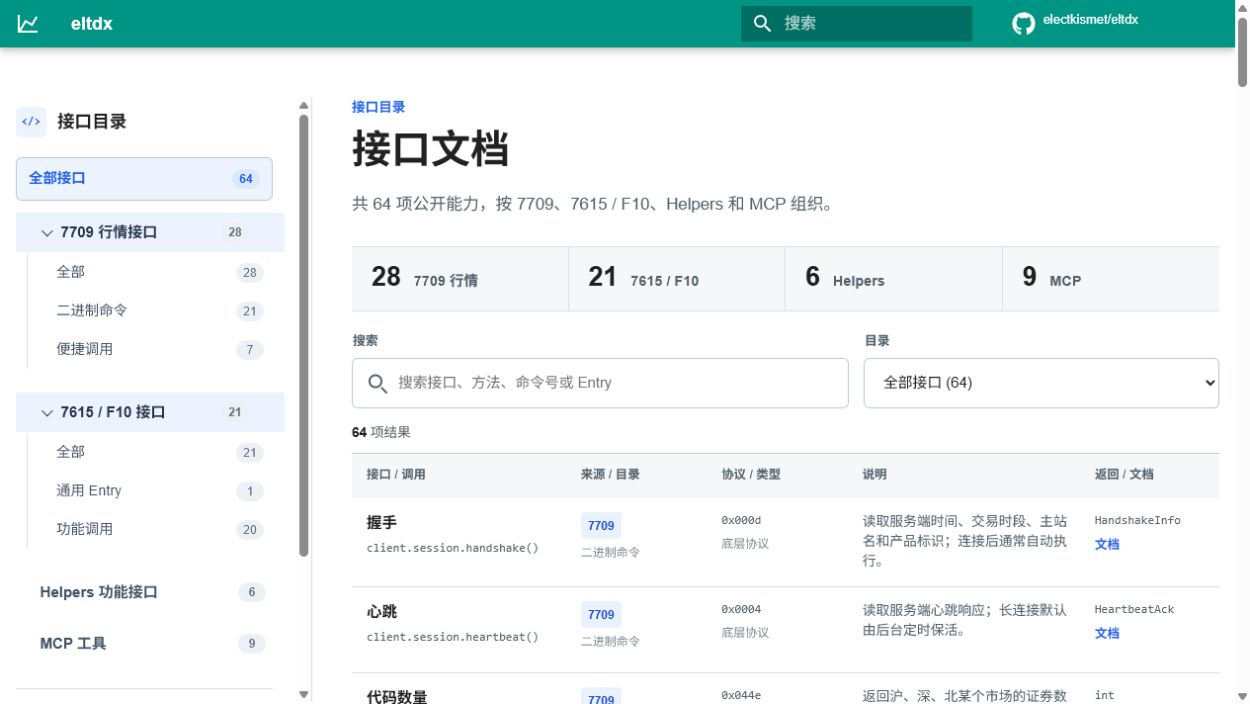
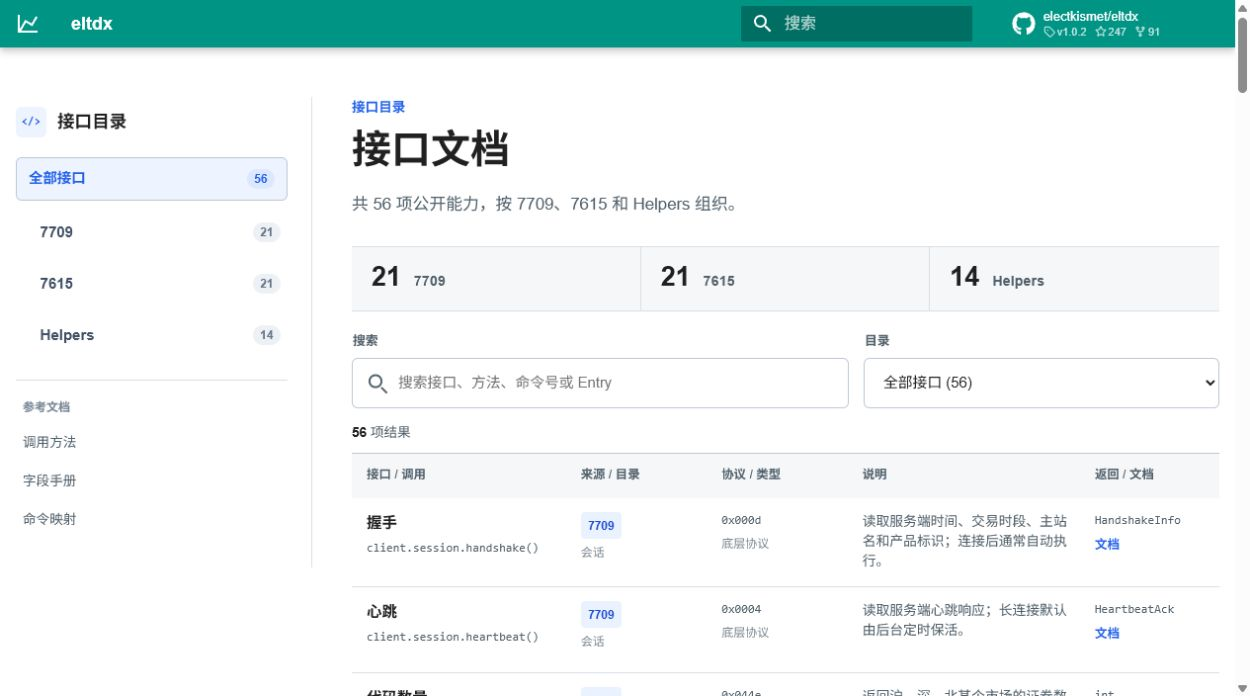
Flatten interface catalog navigation

diff --git a/docs/assets/interface-catalog-data.js b/docs/assets/interface-catalog-data.js
@@ -1,54 +1,30 @@
 window.ELTDX_CATALOG = {
-  "schema_version": 4,
+  "schema_version": 5,
   "taxonomy": {
     "layers": [
       {
         "id": "7709",
-        "label": "7709 行情接口",
+        "label": "7709",
         "tag_label": "7709",
-        "stat_label": "7709 行情",
-        "description": "28 项 7709 行情能力，包括 21 个二进制命令和 7 个便捷调用。",
-        "groups": [
-          {
-            "id": "commands",
-            "label": "二进制命令",
-            "item_ids": [
-              "7709-handshake", "7709-heartbeat", "7709-code-count", "7709-code-list",
-              "7709-quote-snapshots", "7709-legacy-quotes", "7709-category-quotes", "7709-quote-refresh",
-              "7709-kline", "7709-minute-today", "7709-minute-history", "7709-minute-recent",
-              "7709-minute-aux", "7709-sparkline", "7709-trades-today", "7709-trades-history",
-              "7709-auction-series", "7709-gbbq", "7709-finance", "7709-special-limits", "7709-file-content"
-            ]
-          },
-          {"id": "convenience", "label": "便捷调用", "source": "7709"}
-        ]
+        "stat_label": "7709",
+        "description": "21 个 7709 二进制命令，每项对应一个实际命令号。",
+        "source": "7709"
       },
       {
         "id": "7615",
-        "label": "7615 / F10 接口",
-        "tag_label": "7615 / F10",
-        "stat_label": "7615 / F10",
-        "description": "21 项 7615 / F10 能力，包括 1 个通用 Entry 和 20 个功能调用。",
-        "groups": [
-          {"id": "entry", "label": "通用 Entry", "item_ids": ["f10-generic-entry"]},
-          {"id": "features", "label": "功能调用", "source": "F10"}
-        ]
+        "label": "7615",
+        "tag_label": "7615",
+        "stat_label": "7615",
+        "description": "21 项 7615 / F10 调用，通用 Entry 与功能调用在同一目录平铺展示。",
+        "source": "F10"
       },
       {
         "id": "helpers",
-        "label": "Helpers 功能接口",
+        "label": "Helpers",
         "tag_label": "Helpers",
         "stat_label": "Helpers",
-        "description": "6 项面向使用场景的功能接口，组合公开 API 并整理或计算新的结果。",
+        "description": "14 项协议封装与功能接口，包括分页、组合、整理和本地计算。",
         "source": "Helper"
-      },
-      {
-        "id": "mcp",
-        "label": "MCP 工具",
-        "tag_label": "MCP",
-        "stat_label": "MCP",
-        "description": "9 项 MCP 工具，向 Agent 暴露现有的行情、F10、Helper 和文档能力。",
-        "source": "MCP"
       }
     ]
   },
@@ -59,11 +35,11 @@ window.ELTDX_CATALOG = {
     {"id": "7709-code-list", "title": "代码表", "source": "7709", "category": "证券代码", "api": "client.codes.list() / client.codes.all() / client.get_codes_all()", "aliases": ["list", "all", "get_codes_all", "ETF", "指数"], "protocol": "0x044d", "kind": "底层协议", "summary": "返回代码、名称、市场、价格精度、昨收，以及 A 股、ETF、指数等本地分类。", "return_model": "list[SecurityCode]", "doc": "methods/7709-代码表.md"},
     {"id": "7709-quote-snapshots", "title": "批量行情快照", "source": "7709", "category": "行情", "api": "client.quotes.get_snapshots(codes)", "aliases": ["get_snapshots", "quote", "ETF", "指数"], "protocol": "0x054c", "kind": "底层协议", "summary": "无游标的一次性基础快照，返回现价、成交量额和已确认的一档盘口；完整五档由 0x0547 补齐。", "return_model": "list[QuoteSnapshot]", "doc": "methods/7709-批量快照.md"},
     {"id": "7709-legacy-quotes", "title": "旧版批量行情", "source": "7709", "category": "行情", "api": "client.quotes.legacy(codes) / client.get_legacy_quotes(codes)", "aliases": ["legacy_quotes", "legacy", "旧版行情", "五档盘口"], "protocol": "0x053e", "kind": "底层协议", "summary": "无游标的旧版完整快照，一次返回五档、交易状态和旧版尾部字段；不支持增量刷新或推送。", "return_model": "list[LegacyQuote]", "doc": "methods/7709-旧版批量行情.md"},
-    {"id": "7709-quote-depth", "title": "完整行情 / 五档盘口", "source": "7709", "category": "行情封装", "api": "client.get_quote(codes) / client.get_quote_depth(codes) / client.quotes.get_depth(codes)", "aliases": ["get_quote", "get_depth", "get_quote_depth", "level2", "买五", "卖五", "ETF", "指数"], "protocol": "0x054c + 0x0547", "kind": "便捷封装", "summary": "组合快照与首次刷新，补齐完整五档行情；也可只读取五档盘口。", "return_model": "list[QuoteSnapshot] / QuoteRefreshPage", "doc": "methods/7709-批量快照.md"},
+    {"id": "7709-quote-depth", "title": "完整行情 / 五档盘口", "source": "Helper", "category": "行情封装", "api": "client.get_quote(codes) / client.get_quote_depth(codes) / client.quotes.get_depth(codes)", "aliases": ["get_quote", "get_depth", "get_quote_depth", "level2", "买五", "卖五", "ETF", "指数"], "protocol": "0x054c + 0x0547", "kind": "协议封装", "summary": "组合快照与首次刷新，补齐完整五档行情；也可只读取五档盘口。", "return_model": "list[QuoteSnapshot] / QuoteRefreshPage", "doc": "methods/7709-批量快照.md"},
     {"id": "7709-category-quotes", "title": "分类行情", "source": "7709", "category": "行情", "api": "client.quotes.list_by_category(...)", "aliases": ["list_by_category", "sort", "板块行情"], "protocol": "0x054b", "kind": "底层协议", "summary": "按市场或板块分页返回行情列表，并支持按涨幅、价格、成交额等服务端排序。", "return_model": "CategoryQuotePage", "doc": "methods/7709-分类行情.md"},
     {"id": "7709-quote-refresh", "title": "增量刷新 / 推送队列", "source": "7709", "category": "行情", "api": "client.quotes.refresh() / poll_push() / drain_pushes()", "aliases": ["refresh", "poll_push", "drain_pushes", "push queue"], "protocol": "0x0547", "kind": "底层协议", "summary": "按代码和游标刷新行情；首次游标 0 可返回完整五档，后续用于增量更新并配合推送队列。", "return_model": "QuoteRefreshPage", "doc": "methods/7709-增量刷新推送队列.md"},
     {"id": "7709-kline", "title": "K 线 / 周期线", "source": "7709", "category": "K 线", "api": "client.bars.get() / client.get_kline()", "aliases": ["bars.get", "get_kline", "OHLC", "前复权", "后复权", "ETF", "指数"], "protocol": "0x052d", "kind": "底层协议", "summary": "返回分钟、日、周、月、季、年 K 线，支持服务端复权和不复权参数。", "return_model": "KlineSeries", "doc": "methods/7709-K线周期线.md"},
-    {"id": "7709-kline-all", "title": "全量 K 线分页", "source": "7709", "category": "K 线", "api": "client.bars.all() / client.get_kline_all()", "aliases": ["bars.all", "get_kline_all", "历史 K 线"], "protocol": "0x052d", "kind": "分页封装", "summary": "自动连续分页并合并 K 线，适合补充历史日线或分钟线数据。", "return_model": "KlineSeries", "doc": "methods/7709-全量K线分页.md"},
+    {"id": "7709-kline-all", "title": "全量 K 线分页", "source": "Helper", "category": "K 线", "api": "client.bars.all() / client.get_kline_all()", "aliases": ["bars.all", "get_kline_all", "历史 K 线"], "protocol": "0x052d", "kind": "协议封装", "summary": "自动连续分页并合并 K 线，适合补充历史日线或分钟线数据。", "return_model": "KlineSeries", "doc": "methods/7709-全量K线分页.md"},
     {"id": "7709-minute-today", "title": "当日分时", "source": "7709", "category": "分时", "api": "client.minutes.today() / client.get_minute(code)", "aliases": ["minutes.today", "get_minute", "分时图", "ETF", "指数"], "protocol": "0x0537", "kind": "底层协议", "summary": "返回当前交易日每分钟价格、成交量和均价等分时序列。", "return_model": "MinuteSeries", "doc": "methods/7709-当日分时.md"},
     {"id": "7709-minute-history", "title": "指定日期历史分时", "source": "7709", "category": "分时", "api": "client.minutes.history() / client.get_history_minute()", "aliases": ["minutes.history", "get_history_minute", "历史分时"], "protocol": "0x0fb4", "kind": "底层协议", "summary": "按指定日期返回某个交易日的分时价格和分钟成交量。", "return_model": "MinuteSeries", "doc": "methods/7709-指定日期历史分时.md"},
     {"id": "7709-minute-recent", "title": "近期历史分时", "source": "7709", "category": "分时", "api": "client.minutes.recent()", "aliases": ["minutes.recent", "近期分时"], "protocol": "0x0feb", "kind": "底层协议", "summary": "返回服务端近期窗口内的历史分时，适合查询较近交易日的分钟走势。", "return_model": "MinuteSeries", "doc": "methods/7709-近期历史分时.md"},
@@ -72,15 +48,15 @@ window.ELTDX_CATALOG = {
     {"id": "7709-trades-today", "title": "当日成交明细", "source": "7709", "category": "逐笔成交", "api": "client.trades.today() / client.get_trades(code)", "aliases": ["trades.today", "get_trades", "ticks", "逐笔"], "protocol": "0x0fc5", "kind": "底层协议", "summary": "返回当前交易日逐条成交的时间、价格、成交量、方向和状态。", "return_model": "TradePage", "doc": "methods/7709-当日成交明细.md"},
     {"id": "7709-trades-history", "title": "历史成交明细", "source": "7709", "category": "逐笔成交", "api": "client.trades.history() / client.get_history_trade_day()", "aliases": ["trades.history", "get_history_trade_day", "历史逐笔"], "protocol": "0x0fc6", "kind": "底层协议", "summary": "返回指定日期的逐条成交记录，支持分页拉全和委托笔数等扩展字段。", "return_model": "TradePage", "doc": "methods/7709-历史成交明细.md"},
     {"id": "7709-auction-series", "title": "集合竞价明细", "source": "7709", "category": "集合竞价", "api": "client.auctions.series() / client.get_call_auction()", "aliases": ["auctions.series", "get_call_auction", "竞价序列"], "protocol": "0x056a", "kind": "底层协议", "summary": "返回集合竞价阶段的价格、虚拟成交量、买卖盘和未匹配量变化。", "return_model": "AuctionSeries", "doc": "methods/7709-集合竞价明细.md"},
-    {"id": "7709-auction-0925", "title": "09:25 竞价成交快照", "source": "7709", "category": "集合竞价", "api": "client.get_auction_0925(code, date)", "aliases": ["get_auction_0925", "开盘竞价", "925"], "protocol": "基于 0x0fc6", "kind": "本地整理", "summary": "从历史成交明细中扫描 09:25 最终成交，整理价格、成交量、成交额和方向。", "return_model": "Auction0925Result", "doc": "methods/7709-0925竞价成交快照.md"},
+    {"id": "7709-auction-0925", "title": "09:25 竞价成交快照", "source": "Helper", "category": "集合竞价", "api": "client.get_auction_0925(code, date)", "aliases": ["get_auction_0925", "开盘竞价", "925"], "protocol": "基于 0x0fc6", "kind": "功能接口", "summary": "从历史成交明细中扫描 09:25 最终成交，整理价格、成交量、成交额和方向。", "return_model": "Auction0925Result", "doc": "methods/7709-0925竞价成交快照.md"},
     {"id": "7709-gbbq", "title": "股本变迁 / GBBQ", "source": "7709", "category": "公司基础", "api": "client.corporate.capital_changes() / client.get_gbbq()", "aliases": ["capital_changes", "get_gbbq", "股本事件"], "protocol": "0x000f", "kind": "底层协议", "summary": "返回除权除息、股本变化、增发和回购等股本事件记录。", "return_model": "CapitalChangeBlock", "doc": "methods/7709-股本变迁GBBQ.md"},
-    {"id": "7709-xdxr", "title": "除权除息整理", "source": "7709", "category": "公司基础", "api": "client.get_xdxr(code)", "aliases": ["get_xdxr", "分红", "送转", "配股"], "protocol": "基于 0x000f", "kind": "本地整理", "summary": "从股本变迁记录中筛出除权除息事件，并整理分红、送转和配股字段。", "return_model": "list[XdxrRecord]", "doc": "methods/7709-除权除息整理.md"},
-    {"id": "7709-equity", "title": "指定日期股本", "source": "7709", "category": "公司基础", "api": "client.get_equity_changes() / client.get_equity()", "aliases": ["get_equity_changes", "get_equity", "流通股本", "总股本"], "protocol": "基于 0x000f", "kind": "本地整理", "summary": "整理历次股本变化，并取得指定日期之前最近一次流通股本和总股本。", "return_model": "EquityResponse / EquityRecord", "doc": "methods/7709-指定日期股本.md"},
-    {"id": "7709-turnover", "title": "换手率", "source": "7709", "category": "公司基础", "api": "client.get_turnover(code, volume, on=None, unit=\"hand\")", "aliases": ["get_turnover", "turnover rate"], "protocol": "基于 0x000f", "kind": "本地计算", "summary": "使用成交量和指定日期的流通股本计算换手率。", "return_model": "float", "doc": "methods/7709-换手率.md"},
-    {"id": "7709-local-factors", "title": "本地复权因子", "source": "7709", "category": "公司基础", "api": "client.get_factors() / client.get_local_adjusted_kline_all()", "aliases": ["get_factors", "get_local_adjusted_kline_all", "qfq", "hfq"], "protocol": "0x052d + 0x000f", "kind": "本地计算", "summary": "根据不复权日 K 和除权除息记录计算本地前复权、后复权因子及 K 线。", "return_model": "FactorResponse / KlineSeries", "doc": "methods/7709-本地复权因子.md"},
+    {"id": "7709-xdxr", "title": "除权除息整理", "source": "Helper", "category": "公司基础", "api": "client.get_xdxr(code)", "aliases": ["get_xdxr", "分红", "送转", "配股"], "protocol": "基于 0x000f", "kind": "功能接口", "summary": "从股本变迁记录中筛出除权除息事件，并整理分红、送转和配股字段。", "return_model": "list[XdxrRecord]", "doc": "methods/7709-除权除息整理.md"},
+    {"id": "7709-equity", "title": "指定日期股本", "source": "Helper", "category": "公司基础", "api": "client.get_equity_changes() / client.get_equity()", "aliases": ["get_equity_changes", "get_equity", "流通股本", "总股本"], "protocol": "基于 0x000f", "kind": "功能接口", "summary": "整理历次股本变化，并取得指定日期之前最近一次流通股本和总股本。", "return_model": "EquityResponse / EquityRecord", "doc": "methods/7709-指定日期股本.md"},
+    {"id": "7709-turnover", "title": "换手率", "source": "Helper", "category": "公司基础", "api": "client.get_turnover(code, volume, on=None, unit=\"hand\")", "aliases": ["get_turnover", "turnover rate"], "protocol": "基于 0x000f", "kind": "功能接口", "summary": "使用成交量和指定日期的流通股本计算换手率。", "return_model": "float", "doc": "methods/7709-换手率.md"},
+    {"id": "7709-local-factors", "title": "本地复权因子", "source": "Helper", "category": "公司基础", "api": "client.get_factors() / client.get_local_adjusted_kline_all()", "aliases": ["get_factors", "get_local_adjusted_kline_all", "qfq", "hfq"], "protocol": "0x052d + 0x000f", "kind": "功能接口", "summary": "根据不复权日 K 和除权除息记录计算本地前复权、后复权因子及 K 线。", "return_model": "FactorResponse / KlineSeries", "doc": "methods/7709-本地复权因子.md"},
     {"id": "7709-finance", "title": "财务基础信息", "source": "7709", "category": "公司基础", "api": "client.corporate.finance_batch() / client.get_finance_batch()", "aliases": ["finance_batch", "get_finance_batch", "EPS", "资产", "利润"], "protocol": "0x0010", "kind": "底层协议", "summary": "批量返回流通股本、总股本、EPS、资产、负债、收入和利润等基础字段。", "return_model": "FinanceBatch", "doc": "methods/7709-财务基础信息.md"},
     {"id": "7709-special-limits", "title": "特殊品种涨跌停限制", "source": "7709", "category": "交易限制", "api": "client.limits.special() / client.limits.scan_special()", "aliases": ["limits.special", "scan_special", "涨停", "跌停"], "protocol": "0x0452", "kind": "底层协议", "summary": "分页或连续扫描特殊品种涨跌停限制表，并按代码建立索引。", "return_model": "SpecialLimitPage", "doc": "methods/7709-特殊品种涨跌停限制.md"},
-    {"id": "7709-file-content", "title": "服务器文件读取", "source": "7709", "category": "服务器资源", "api": "client.resources.read() / download_file() / read_stats()", "aliases": ["file_content", "read_server_file", "download_file", "read_stats", "zhb.zip", "tdxstat", "服务器文件", "文件块"], "protocol": "0x06b9", "kind": "底层协议 + 上层解析", "summary": "读取单个文件块或下载整文件，并可解压解析 zhb.zip 中的 tdxstat.cfg 与 tdxstat2.cfg。", "return_model": "FileContentChunk / bytes / TdxStatsResource", "doc": "methods/7709-服务器文件读取.md"},
+    {"id": "7709-file-content", "title": "服务器文件分块读取", "source": "7709", "category": "服务器资源", "api": "client.resources.read() / client.read_server_file()", "aliases": ["file_content", "read_server_file", "服务器文件", "文件块"], "protocol": "0x06b9", "kind": "底层协议", "summary": "按路径、偏移和长度读取一个服务器文件块，返回长度头与原始内容。", "return_model": "FileContentChunk", "doc": "methods/7709-服务器文件读取.md"},
 
     {"id": "f10-generic-entry", "title": "通用 Entry 调用", "source": "F10", "category": "网关", "api": "client.f10.call(...) / client.f10.params(...)", "aliases": ["call", "params", "TQLEX"], "protocol": "7615 / TQLEX", "kind": "通用调用", "summary": "直接调用任意 TQLEX Entry，用于验证资料函数或补充调用特殊 Entry。", "return_model": "F10Response", "doc": "methods/F10-通用Entry调用.md"},
     {"id": "f10-stock-info", "title": "股票基础信息", "source": "F10", "category": "公司资料", "api": "client.f10.stock_info() / business_periods() / topic_ids()", "aliases": ["stock_info", "business_periods", "topic_ids"], "protocol": "CWServ.tdxf10_gg_comreq", "kind": "Entry 封装", "summary": "查询股票名称、代码、市场，以及主营报告期和题材 ID 等辅助信息。", "return_model": "F10Response", "doc": "methods/F10-股票基础信息.md"},
@@ -110,15 +86,6 @@ window.ELTDX_CATALOG = {
     {"id": "helper-stock-topics", "title": "个股概念板块", "source": "Helper", "category": "题材与概念", "api": "client.helpers.stock_topics(code)", "aliases": ["stock_topics", "个股题材"], "protocol": "F10 多 Entry", "kind": "组合能力", "summary": "合并股票基础信息和热点题材结果，整理某只股票的全部题材与概念。", "return_model": "StockTopics", "doc": "helpers/个股概念板块.md"},
     {"id": "helper-topic-stocks", "title": "概念板块成分股", "source": "Helper", "category": "题材与概念", "api": "client.helpers.topic_stocks(seed_code, ...)", "aliases": ["topic_stocks", "题材成分股"], "protocol": "F10 多 Entry", "kind": "组合能力", "summary": "按题材 ID 或名称查询概念板块成分股，并整理排名和区间涨跌幅。", "return_model": "TopicStockTable", "doc": "helpers/概念板块成分股.md"},
     {"id": "helper-auction-data", "title": "竞价数据", "source": "Helper", "category": "集合竞价", "api": "client.helpers.auction_data(code, date)", "aliases": ["auction_data", "开盘涨幅", "开盘金额"], "protocol": "0x056a + 0x0fc6 + 0x054c", "kind": "组合能力", "summary": "合并竞价序列、09:25 成交快照和昨收，计算开盘价、开盘金额及涨幅。", "return_model": "AuctionData", "doc": "helpers/竞价数据.md"},
-
-    {"id": "mcp-quote", "title": "行情快照", "source": "MCP", "category": "行情工具", "api": "eltdx_quote", "aliases": ["quote", "MCP tool"], "protocol": "MCP stdio", "kind": "工具", "summary": "通过 MCP 查询一个或多个股票的行情快照。", "return_model": "JSON", "doc": "MCP.md", "doc_anchor": "mcp-tools"},
-    {"id": "mcp-kline", "title": "K 线 / 周期线", "source": "MCP", "category": "行情工具", "api": "eltdx_kline", "aliases": ["kline", "bars", "MCP tool"], "protocol": "MCP stdio", "kind": "工具", "summary": "通过 MCP 查询 K 线和周期线，并支持复权参数。", "return_model": "JSON", "doc": "MCP.md", "doc_anchor": "mcp-tools"},
-    {"id": "mcp-stock-profile", "title": "股票信息汇总", "source": "MCP", "category": "组合工具", "api": "eltdx_stock_profile", "aliases": ["stock_profile", "MCP tool"], "protocol": "MCP stdio", "kind": "工具", "summary": "通过 MCP 合并行情、代码表和财务基础信息。", "return_model": "JSON", "doc": "MCP.md", "doc_anchor": "mcp-tools"},
-    {"id": "mcp-stock-topics", "title": "个股题材 / 概念板块", "source": "MCP", "category": "题材工具", "api": "eltdx_stock_topics", "aliases": ["stock_topics", "MCP tool"], "protocol": "MCP stdio", "kind": "工具", "summary": "通过 MCP 查询某只股票的全部题材与概念板块。", "return_model": "JSON", "doc": "MCP.md", "doc_anchor": "mcp-tools"},
-    {"id": "mcp-topic-stocks", "title": "题材 / 概念成分股", "source": "MCP", "category": "题材工具", "api": "eltdx_topic_stocks", "aliases": ["topic_stocks", "MCP tool"], "protocol": "MCP stdio", "kind": "工具", "summary": "通过 MCP 查询指定题材或概念板块中的股票。", "return_model": "JSON", "doc": "MCP.md", "doc_anchor": "mcp-tools"},
-    {"id": "mcp-company-profile", "title": "F10 公司概况", "source": "MCP", "category": "F10 工具", "api": "eltdx_company_profile", "aliases": ["company_profile", "MCP tool"], "protocol": "MCP stdio", "kind": "工具", "summary": "通过 MCP 查询 F10 公司概况和发行上市信息。", "return_model": "JSON", "doc": "MCP.md", "doc_anchor": "mcp-tools"},
-    {"id": "mcp-hot-topics", "title": "F10 热点题材", "source": "MCP", "category": "F10 工具", "api": "eltdx_hot_topics", "aliases": ["hot_topics", "MCP tool"], "protocol": "MCP stdio", "kind": "工具", "summary": "通过 MCP 查询 F10 热点题材明细。", "return_model": "JSON", "doc": "MCP.md", "doc_anchor": "mcp-tools"},
-    {"id": "mcp-auction-0925", "title": "09:25 竞价成交快照", "source": "MCP", "category": "竞价工具", "api": "eltdx_auction_0925", "aliases": ["auction_0925", "MCP tool"], "protocol": "MCP stdio", "kind": "工具", "summary": "通过 MCP 查询指定日期的 09:25 竞价最终成交快照。", "return_model": "JSON", "doc": "MCP.md", "doc_anchor": "mcp-tools"},
-    {"id": "mcp-docs-index", "title": "文档入口索引", "source": "MCP", "category": "文档工具", "api": "eltdx_docs_index", "aliases": ["docs_index", "MCP tool"], "protocol": "MCP stdio", "kind": "工具", "summary": "通过 MCP 返回项目的主要本地文档入口。", "return_model": "dict[str, str]", "doc": "MCP.md", "doc_anchor": "mcp-tools"}
+    {"id": "helper-server-stats", "title": "服务器文件下载与统计解析", "source": "Helper", "category": "服务器资源", "api": "client.resources.download_file() / client.resources.read_stats()", "aliases": ["download_file", "read_stats", "zhb.zip", "tdxstat", "服务器文件"], "protocol": "基于 0x06b9", "kind": "协议封装", "summary": "循环下载完整服务器文件，并可解析 zhb.zip 中的 tdxstat.cfg 与 tdxstat2.cfg。", "return_model": "bytes / TdxStatsResource", "doc": "methods/7709-服务器文件读取.md", "doc_anchor": "stats-resource"}
   ]
 };

diff --git a/docs/assets/interface-catalog.css b/docs/assets/interface-catalog.css
@@ -12,8 +12,6 @@
   --catalog-7615-soft: #e5f4f1;
   --catalog-helper: #9a5b08;
   --catalog-helper-soft: #fff4dc;
-  --catalog-mcp: #5b6472;
-  --catalog-mcp-soft: #edf0f4;
 }
 
 .md-grid {
@@ -276,7 +274,7 @@
 
 .interface-stats {
   display: grid;
-  grid-template-columns: repeat(4, minmax(0, 1fr));
+  grid-template-columns: repeat(3, minmax(0, 1fr));
   border-top: 1px solid var(--catalog-border);
   border-bottom: 1px solid var(--catalog-border);
   background: var(--catalog-surface-muted);
@@ -304,16 +302,20 @@
 }
 
 .interface-stat strong {
+  flex: 0 0 auto;
   color: var(--md-typeset-color);
   font-size: 1.35rem;
   font-variant-numeric: tabular-nums;
   line-height: 1;
+  white-space: nowrap;
 }
 
 .interface-stat span {
+  flex: 0 0 auto;
   min-width: 0;
   font-size: 0.72rem;
   font-weight: 650;
+  white-space: nowrap;
 }
 
 .interface-controls {
@@ -508,11 +510,6 @@
   color: var(--catalog-helper);
 }
 
-.interface-layer-tag[data-layer="mcp"] {
-  background: var(--catalog-mcp-soft);
-  color: var(--catalog-mcp);
-}
-
 .interface-source small,
 .interface-protocol small {
   max-width: 100%;
@@ -589,18 +586,6 @@
 }
 
 @media screen and (max-width: 56rem) {
-  .interface-stats {
-    grid-template-columns: repeat(2, minmax(0, 1fr));
-  }
-
-  .interface-stat:nth-child(2) {
-    border-right: 0;
-  }
-
-  .interface-stat:nth-child(n + 3) {
-    border-top: 1px solid var(--catalog-border);
-  }
-
   .interface-controls {
     grid-template-columns: minmax(0, 1fr);
   }
@@ -659,8 +644,8 @@
   }
 
   .interface-stat {
-    gap: 0.45rem;
-    padding: 0.75rem 0.65rem;
+    gap: 0.3rem;
+    padding: 0.75rem 0.45rem;
   }
 
   .interface-stat strong {

diff --git a/docs/assets/interface-catalog.js b/docs/assets/interface-catalog.js
@@ -16,9 +16,8 @@
   var layers = catalog.taxonomy.layers;
   var sourceLabels = {
     "7709": "7709",
-    "F10": "7615 / F10",
-    "Helper": "Helper",
-    "MCP": "MCP"
+    "F10": "7615",
+    "Helper": "Helpers"
   };
   var searchInput = root.querySelector("[data-interface-search]");
   var scopeSelect = root.querySelector("[data-interface-scope-select]");
@@ -34,11 +33,14 @@
   var scopes = Object.create(null);
   var taxonomyErrors = [];
   var scopeAliases = {
-    "binary": "7709/commands",
-    "wrapper/tdx-wrappers": "7709/convenience",
+    "binary": "7709",
+    "7709/commands": "7709",
+    "7709/convenience": "helpers",
+    "7615/entry": "7615",
+    "7615/features": "7615",
+    "wrapper/tdx-wrappers": "helpers",
     "wrapper/f10": "7615",
-    "wrapper/helpers": "helpers",
-    "wrapper/mcp": "mcp"
+    "wrapper/helpers": "helpers"
   };
 
   function createElement(tag, className, text) {
@@ -138,7 +140,7 @@
     scopes.all = {
       id: "all",
       label: "接口文档",
-      description: "共 " + items.length + " 项公开能力，按 7709、7615 / F10、Helpers 和 MCP 组织。",
+      description: "共 " + items.length + " 项公开能力，按 7709、7615 和 Helpers 组织。",
       count: items.length
     };
     layers.forEach(function (layer) {
@@ -321,7 +323,7 @@
       return scopeAliases[raw];
     }
     if (raw.indexOf("binary/") === 0) {
-      return "7709/commands";
+      return "7709";
     }
     return "all";
   }

diff --git a/tests/test_pages.py b/tests/test_pages.py
@@ -59,53 +59,44 @@ def test_pages_catalog_has_expected_public_interfaces() -> None:
     catalog = _catalog()
     items = catalog["items"]
 
-    assert catalog["schema_version"] == 4
-    assert len(items) == 64
+    assert catalog["schema_version"] == 5
+    assert len(items) == 56
     assert Counter(item["source"] for item in items) == {
-        "7709": 28,
+        "7709": 21,
         "F10": 21,
-        "Helper": 6,
-        "MCP": 9,
+        "Helper": 14,
     }
     assert len({item["id"] for item in items}) == len(items)
 
 
-def test_pages_catalog_is_organized_by_source_and_call_level() -> None:
+def test_pages_catalog_has_three_flat_source_menus() -> None:
     catalog = _catalog()
     ordered_layers = catalog["taxonomy"]["layers"]
-    layers = {layer["id"]: layer for layer in ordered_layers}
     assignments = _taxonomy_assignments(catalog)
 
     assert [(layer["id"], layer["label"]) for layer in ordered_layers] == [
-        ("7709", "7709 行情接口"),
-        ("7615", "7615 / F10 接口"),
-        ("helpers", "Helpers 功能接口"),
-        ("mcp", "MCP 工具"),
+        ("7709", "7709"),
+        ("7615", "7615"),
+        ("helpers", "Helpers"),
     ]
     assert Counter(layer_id for layer_id, _ in assignments.values()) == {
-        "7709": 28,
+        "7709": 21,
         "7615": 21,
-        "helpers": 6,
-        "mcp": 9,
+        "helpers": 14,
     }
-    assert Counter(group_id for layer_id, group_id in assignments.values() if layer_id == "7709") == {
-        "commands": 21,
-        "convenience": 7,
-    }
-    assert Counter(group_id for layer_id, group_id in assignments.values() if layer_id == "7615") == {
-        "entry": 1,
-        "features": 20,
-    }
-    assert layers["helpers"]["source"] == "Helper" and "groups" not in layers["helpers"]
-    assert layers["mcp"]["source"] == "MCP" and "groups" not in layers["mcp"]
-    assert assignments["f10-generic-entry"] == ("7615", "entry")
+    assert all("groups" not in layer for layer in ordered_layers)
+    assert {layer["source"] for layer in ordered_layers} == {"7709", "F10", "Helper"}
+    assert assignments["f10-generic-entry"] == ("7615", None)
+    assert assignments["7709-turnover"] == ("helpers", None)
+    assert assignments["helper-server-stats"] == ("helpers", None)
+    assert all(item["source"] != "MCP" for item in catalog["items"])
+    assert (REPO_ROOT / "docs" / "MCP.md").is_file()
 
 
 def test_pages_catalog_covers_every_registered_7709_command() -> None:
     catalog = _catalog()
-    tdx_layer = next(layer for layer in catalog["taxonomy"]["layers"] if layer["id"] == "7709")
-    commands_group = next(group for group in tdx_layer["groups"] if group["id"] == "commands")
-    binary_ids = set(commands_group["item_ids"])
+    assignments = _taxonomy_assignments(catalog)
+    binary_ids = {item_id for item_id, (layer_id, _) in assignments.items() if layer_id == "7709"}
     binary_protocols = [item["protocol"].lower() for item in catalog["items"] if item["id"] in binary_ids]
 
     assert len(COMMANDS) == len(binary_ids) == 21
@@ -147,11 +138,16 @@ def test_quote_command_docs_explain_the_three_distinct_roles() -> None:
 def test_file_resource_catalog_documents_download_and_stats_parsing() -> None:
     items = {item["id"]: item for item in _catalog()["items"]}
     resource = items["7709-file-content"]
+    helper = items["helper-server-stats"]
     method_doc = (REPO_ROOT / "docs" / resource["doc"]).read_text(encoding="utf-8")
 
     assert resource["protocol"].lower() == "0x06b9"
-    assert all(name in resource["api"] for name in ("read()", "download_file()", "read_stats()"))
-    assert "TdxStatsResource" in resource["return_model"]
+    assert "read()" in resource["api"] and "download_file()" not in resource["api"]
+    assert resource["return_model"] == "FileContentChunk"
+    assert helper["source"] == "Helper"
+    assert all(name in helper["api"] for name in ("download_file()", "read_stats()"))
+    assert "TdxStatsResource" in helper["return_model"]
+    assert helper["doc_anchor"] == "stats-resource"
     assert "不是新的二进制命令" in method_doc
     assert all(name in method_doc for name in ("tdxstat.cfg", "tdxstat2.cfg", "free_float_shares_10k", "open_amount_10k"))
 
@@ -175,9 +171,12 @@ def test_pages_catalog_ui_exposes_taxonomy_navigation() -> None:
     assert "data-interface-tree" in page
     assert "data-interface-scope-select" in page
     assert "window.location.hash" in app
-    assert 'layer.id + "/" + group.id' in app
     assert '"wrapper/helpers": "helpers"' in app
+    assert '"7709/commands": "7709"' in app
+    assert '"7615/features": "7615"' in app
+    assert 'return "7709";' in app
     assert "catalog-tree-leaf" in app
+    assert "按 7709、7615 和 Helpers 组织" in app
 
 
 def test_readme_promotes_the_static_pages_catalog() -> None:

diff --git a/docs/index.md b/docs/index.md
@@ -24,7 +24,7 @@ hide:
     <header class="catalog-heading">
       <p class="catalog-kicker">接口目录</p>
       <h1 data-interface-heading>接口文档</h1>
-      <p data-interface-lead>当前公开的 7709 行情、7615 / F10、Helpers 和 MCP 能力。每项均链接到参数、返回字段和示例说明。</p>
+      <p data-interface-lead>当前公开的 7709、7615 和 Helpers 接口。每项均链接到参数、返回字段和示例说明。</p>
     </header>
 
     <div class="interface-stats" data-interface-stats aria-label="接口来源统计"></div>
@@ -60,9 +60,10 @@ hide:
 
     <section class="catalog-scope" aria-labelledby="catalog-scope-title">
       <h2 id="catalog-scope-title">统计口径</h2>
-      <p><code>7709</code> 收录 21 个二进制命令和 7 个便捷调用；便捷调用负责分页、拆批、协议组合及本地整理，结果仍属于原有行情领域。</p>
-      <p><code>7615 / F10</code> 收录 1 个通用 Entry 和 20 个功能调用；它使用 HTTP POST 与 JSON，不属于二进制协议。</p>
-      <p><code>Helpers</code> 面向实际场景组合公开 API 并计算新结果；<code>MCP</code> 负责向 Agent 暴露已有能力。</p>
+      <p><code>7709</code> 收录 21 个二进制命令，每项对应一个实际命令号。</p>
+      <p><code>7615</code> 将通用 Entry 和 20 个功能调用平铺在同一目录；它使用 HTTP POST 与 JSON，不属于二进制协议。</p>
+      <p><code>Helpers</code> 收录协议封装与功能接口，包括分页、拆批、协议组合、内容解析、本地整理和计算。</p>
+      <p><code>MCP</code> 是面向 Agent 的工具服务，保留独立文档，但不计入接口目录分类。</p>
       <p>目录数据随静态页面发布，打开后不会连接行情主站、F10 网关或任何 eltdx 后台服务。</p>
     </section>
   </div>

diff --git a/docs/methods/7709-服务器文件读取.md b/docs/methods/7709-服务器文件读取.md
@@ -32,7 +32,7 @@ with TdxClient(timeout=3) as client:
     print(len(payload))
 ```
 
-### 解析 `zhb.zip`
+### 解析 `zhb.zip` {#stats-resource}
 
 ```python
 with TdxClient(timeout=3) as client: